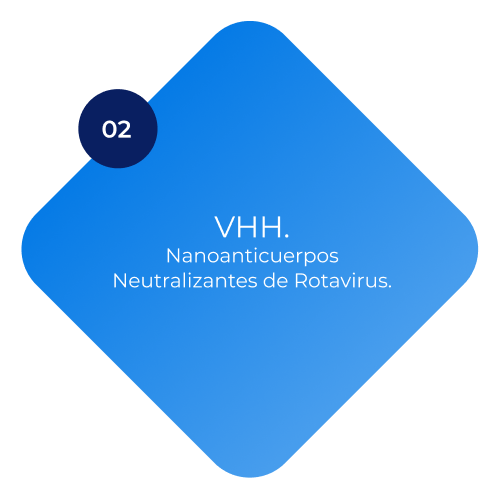
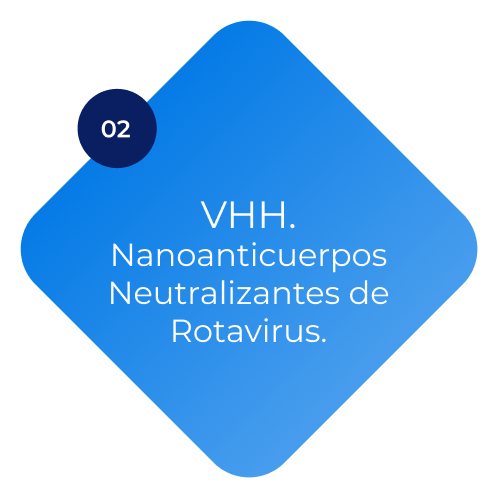
cambios 9-11

diff --git a/views/nosotros.html b/views/nosotros.html
@@ -19,6 +19,11 @@
     <link rel="preconnect" href="https://fonts.googleapis.com">
 <link rel="preconnect" href="https://fonts.gstatic.com" crossorigin>
 <link href="https://fonts.googleapis.com/css2?family=Montserrat:ital,wght@0,100;0,200;0,300;0,400;0,500;0,600;0,700;0,800;0,900;1,100;1,200;1,300;1,400;1,500;1,600;1,700;1,800;1,900&display=swap" rel="stylesheet">
+
+  <!-- AOS-->
+
+  <link href="https://unpkg.com/aos@2.3.1/dist/aos.css" rel="stylesheet">
+
 </head>
 <body>
     
@@ -52,7 +57,7 @@
               </a>
               <div class="dropdown-menu" aria-labelledby="navbarDropdown">
                 <a class="dropdown-item" href="./trabajo.html">Nuestros trabajos</a>
-                <a class="dropdown-item" href="./agm.html">AGN</a>               
+                <a class="dropdown-item" href="./agm.html">AGM</a>               
               </div>
             </li>
 
@@ -94,6 +99,7 @@
 
     </section>
 
+    <div data-aos="fade-up" data-aos-duration="2000">
     <section class="secondSectionUs">
 
       <div class="container-fluid">
@@ -111,7 +117,7 @@
             <img src="../img/user02.png" alt="" class="img-fluid">
             <div class="text-center">
               <h3>Gustavo <br> Mahler</h3>
-              <p>Director Biomill. <br>  Director Biosidus Group. <br>  Ex CEO AGR Biologics.
+              <p>Director Biomill. <br>  Director Biosidus Group. <br>  Ex CEO AGC Biologics.
                 </p>
               </div>
           </div>
@@ -133,7 +139,7 @@
             <img src="../img/user05.png" alt="" class="img-fluid">
             <div class="text-center">
               <h3>Federico <br> Alais</h3>
-              <p>Gerente de Desarrollo Comercial. <br> Experto en desarrollo de negocios farmacéuticos y agronegocios.</p>
+              <p>Gerente de Desarrollo Comercial. <br> Experto en negocios farmacéuticos y agronegocios.</p>
               </div>
           </div>
 
@@ -141,7 +147,7 @@
         </div>
       </div>
 
-    </section>
+    </section></div>
 
   </div>
 
@@ -166,7 +172,14 @@
     </div>
     <div class="lineDown"></div>
   </footer>
+
     <!--scripts-->
+
+    <script src="https://unpkg.com/aos@2.3.1/dist/aos.js"></script>
+
+    <script>
+      AOS.init();
+    </script>
 
 <script src="https://code.jquery.com/jquery-3.5.1.slim.min.js" integrity="sha384-DfXdz2htPH0lsSSs5nCTpuj/zy4C+OGpamoFVy38MVBnE+IbbVYUew+OrCXaRkfj" crossorigin="anonymous"></script>
 <script src="https://cdn.jsdelivr.net/npm/bootstrap@4.6.0/dist/js/bootstrap.bundle.min.js" integrity="sha384-Piv4xVNRyMGpqkS2by6br4gNJ7DXjqk09RmUpJ8jgGtD7zP9yug3goQfGII0yAns" crossorigin="anonymous"></script>

diff --git a/index.html b/index.html
@@ -20,6 +20,10 @@
 <link rel="preconnect" href="https://fonts.gstatic.com" crossorigin>
 <link href="https://fonts.googleapis.com/css2?family=Montserrat:ital,wght@0,100;0,200;0,300;0,400;0,500;0,600;0,700;0,800;0,900;1,100;1,200;1,300;1,400;1,500;1,600;1,700;1,800;1,900&display=swap" rel="stylesheet">
 
+    <!-- AOS-->
+
+    <link href="https://unpkg.com/aos@2.3.1/dist/aos.css" rel="stylesheet">
+
 </head>
 
 <body>
@@ -54,7 +58,7 @@
               </a>
               <div class="dropdown-menu" aria-labelledby="navbarDropdown">
                 <a class="dropdown-item" href="./views/trabajo.html">Nuestros trabajos</a>
-                <a class="dropdown-item" href="./views/agm.html">AGN</a>               
+                <a class="dropdown-item" href="./views/agm.html">AGM</a>               
               </div>
             </li>
 
@@ -213,7 +217,11 @@
 <!--scripts-->
 
 
+<script src="https://unpkg.com/aos@2.3.1/dist/aos.js"></script>
 
+<script>
+  AOS.init();
+</script>
 
 <script src="https://code.jquery.com/jquery-3.5.1.slim.min.js" integrity="sha384-DfXdz2htPH0lsSSs5nCTpuj/zy4C+OGpamoFVy38MVBnE+IbbVYUew+OrCXaRkfj" crossorigin="anonymous"></script>
 <script src="https://cdn.jsdelivr.net/npm/bootstrap@4.6.0/dist/js/bootstrap.bundle.min.js" integrity="sha384-Piv4xVNRyMGpqkS2by6br4gNJ7DXjqk09RmUpJ8jgGtD7zP9yug3goQfGII0yAns" crossorigin="anonymous"></script>

diff --git a/views/vhh.html b/views/vhh.html
@@ -50,7 +50,7 @@
               </a>
               <div class="dropdown-menu" aria-labelledby="navbarDropdown">
                 <a class="dropdown-item" href="./trabajo.html">Nuestros trabajos</a>
-                <a class="dropdown-item" href="./agm.html">AGN</a>               
+                <a class="dropdown-item" href="./agm.html">AGM</a>               
               </div>
             </li>
 
@@ -103,8 +103,8 @@
               Rotavirus (RV) es el principal agente productor de diarrea aguda infantil a nivel mundial. La gastroenteritis por RV se caracteriza por una diarrea acuosa profusa que, en algunos casos, llega a la deshidratación grave y muerte del paciente. A nivel global, RV es responsable del 25-50% de gastroenteritis infantiles que requieren hospitalización en países desarrollados y en vías de desarrollo, respectivamente. Este agente fue asociado a 24 millones de consultas ambulatorias, 2.4 millones de hospitalizaciones y 500.000 muertes por año de niños menores de 5 años.  </p>
           </div>
     
-          <div class="col-lg-6 col-md-12 col-sm-12">
-            <img src="../img/rotavirus.png" alt="" class="img-fluid">
+          <div class="col-lg-6 col-md-12 col-sm-12 text-center" >
+            <img src="../img/rotavirus02.png" alt="" class="img-fluid">
           </div>
     
         </div>

diff --git a/views/proyectos.html b/views/proyectos.html
@@ -50,7 +50,7 @@
               </a>
               <div class="dropdown-menu" aria-labelledby="navbarDropdown">
                 <a class="dropdown-item" href="./trabajo.html">Nuestros trabajos</a>
-                <a class="dropdown-item" href="./agm.html">AGN</a>               
+                <a class="dropdown-item" href="./agm.html">AGM</a>               
               </div>
             </li>
 
@@ -101,10 +101,10 @@
           <div class="row">
             <div class="col-2"></div>
             <div class="col-3">
-              <img src="../img/sq01.png" alt="" class="sq01 " >
+              <a href="./biohormon.html"> <img src="../img/sq01.png" alt="" class="sq01" ></a>
             </div>
             <div class="col-3">
-              <img src="../img/sq02.png" alt="" class="sq02">
+             <a href="./vhh.html">  <img src="../img/sq02.png" alt="" class="sq02"></a>
             </div>
           </div> <!--fin del row01-->
 

diff --git a/views/historia.html b/views/historia.html
@@ -52,7 +52,7 @@
               </a>
               <div class="dropdown-menu" aria-labelledby="navbarDropdown">
                 <a class="dropdown-item" href="./trabajo.html">Nuestros trabajos</a>
-                <a class="dropdown-item" href="./agm.html">AGN</a>               
+                <a class="dropdown-item" href="./agm.html">AGM</a>               
               </div>
             </li>
 
@@ -133,7 +133,7 @@
             <span class="yearBio">2018</span>  
             <hr>       
               <div> 
-              <p> Biodisus se asocia al Private Equity Acon focalizándose en el desarrollo y crecimiento de fármacos biosimilares.</p> 
+              <p> Biosidus se asocia al Private Equity Acon focalizándose en el desarrollo y crecimiento de fármacos biosimilares.</p> 
               </div>
           </div> 
 

diff --git a/views/trabajo.html b/views/trabajo.html
@@ -51,7 +51,7 @@
               </a>
               <div class="dropdown-menu" aria-labelledby="navbarDropdown">
                 <a class="dropdown-item active02" href="./trabajo.html">Nuestros trabajos</a>
-                <a class="dropdown-item" href="./agm.html">AGN</a>               
+                <a class="dropdown-item" href="./agm.html">AGM</a>               
               </div>
             </li>
 

diff --git a/views/biohormon.html b/views/biohormon.html
@@ -52,7 +52,7 @@
               </a>
               <div class="dropdown-menu" aria-labelledby="navbarDropdown">
                 <a class="dropdown-item" href="./trabajo.html">Nuestros trabajos</a>
-                <a class="dropdown-item" href="./agm.html">AGN</a>               
+                <a class="dropdown-item" href="./agm.html">AGM</a>               
               </div>
             </li>
 

diff --git a/views/contacto.html b/views/contacto.html
@@ -52,7 +52,7 @@
               </a>
               <div class="dropdown-menu" aria-labelledby="navbarDropdown">
                 <a class="dropdown-item" href="./trabajo.html">Nuestros trabajos</a>
-                <a class="dropdown-item" href="./agm.html">AGN</a>               
+                <a class="dropdown-item" href="./agm.html">AGM</a>               
               </div>
             </li>
 

diff --git a/assets/css/style.css b/assets/css/style.css
@@ -304,7 +304,7 @@ header{
     font-family: 'Montserrat', sans-serif;
     font-weight: 400;
     color: #31ABE7;
-    font-size: 1.25rem;
+    font-size: 1.05rem;
     margin-top: 1.875rem;
 }
 
@@ -824,7 +824,7 @@ header{
 }
 
 .secondSectionWork img {
-        max-width: 60%;
+        max-width: 70%;
         height: auto;
     /*    margin-bottom: 2rem;    
         margin-top: -40px;*/

diff --git a/views/hitos.html b/views/hitos.html
@@ -51,7 +51,7 @@
           </a>
           <div class="dropdown-menu" aria-labelledby="navbarDropdown">
             <a class="dropdown-item" href="./trabajo.html">Nuestros trabajos</a>
-            <a class="dropdown-item" href="./agm.html">AGN</a>               
+            <a class="dropdown-item" href="./agm.html">AGM</a>               
           </div>
         </li>
 
